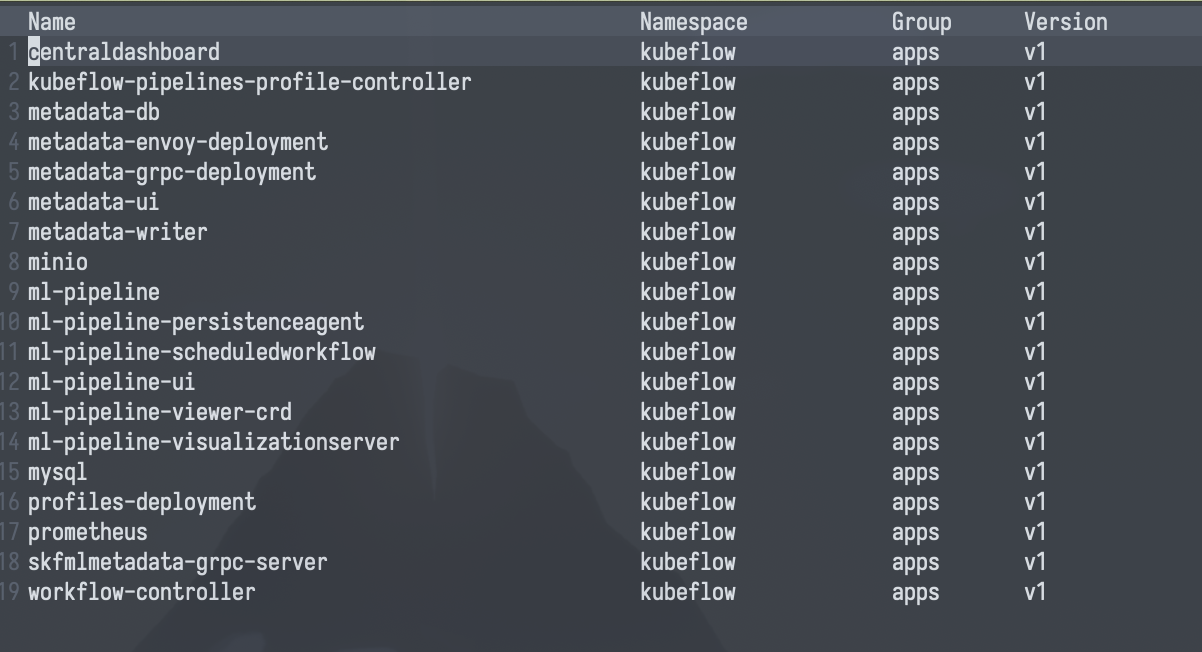
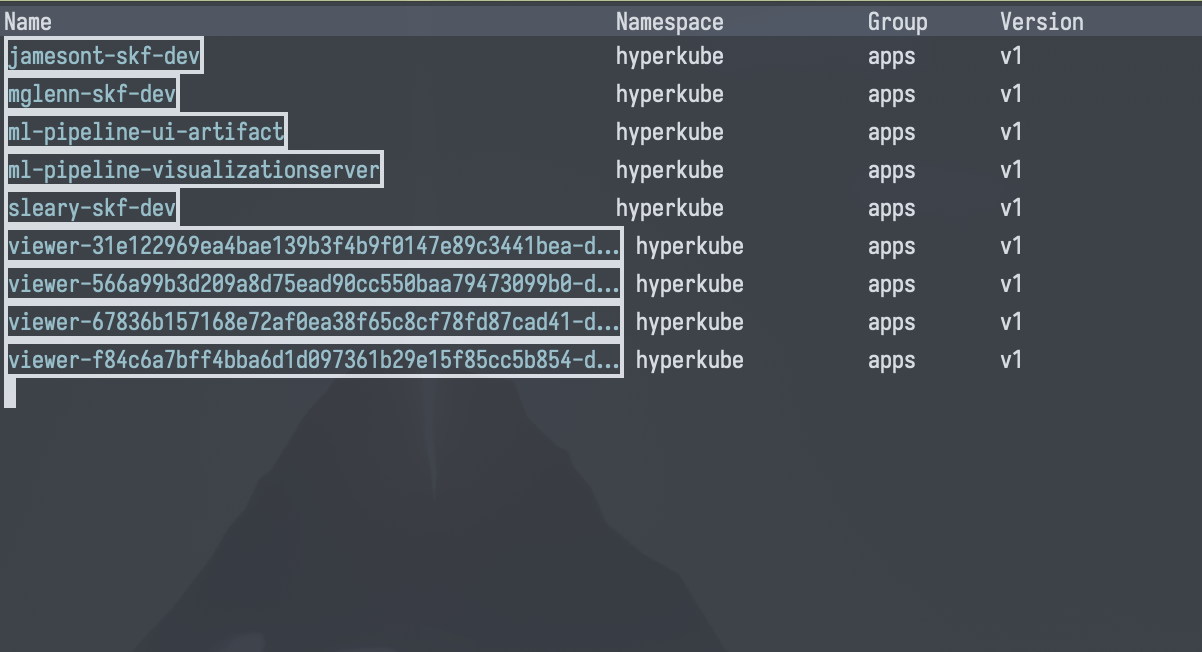
`kele-list`: Clickable rows (#141)
Closes #136.

diff --git a/docs/how-tos/usage.md b/docs/how-tos/usage.md
@@ -25,8 +25,8 @@ to accomplish, reach for `kele-dispatch`.
 
 ## Working with Resources
 
-`s-k r` is bound to `kele-resource`, the "prefix" command for working with
-resources in Kele.
+Interacting with resources in Kele centers around the `s-k r` prefix, which is
+bound to `kele-resource`.
 
 `kele-resource` allows you to act on specific resource kinds. With
 `kele-resource`, you can, for example:
@@ -44,10 +44,35 @@ work with, after which you can choose to **get** a specific object of that kind
 by name. If the resource is namespaced, you will also be presented with the
 option to choose the namespace to select from.
 
-| Keybinding                            | Functionality                      | Interactive function | Demo                         |
-|:--------------------------------------|------------------------------------|:---------------------|------------------------------|
-| `s-k r <kind-name> g <resource-name>` | Display a single resource          | `kele-get`           | ![](./img/kele-resource.gif) |
-| `s-k r <kind name> l`                 | List all resources of a given type | `kele-list`          | ![](./img/kele-list.png)     |
+### Getting a single resource
+
+You can get a single resource of the given kind with:
+```
+s-k r <kind name> g <resource name>`
+```
+
+This is bound to `kele-get`.
+
+![](./img/kele-resource.gif)
+
+### Listing all resources of a single kind
+
+You can list all resources of a single kind with:
+```
+s-k r <kind name> l
+```
+
+This is bound to `kele-list`.
+
+![](./img/kele-list.png)
+
+This will list all resources of the specified group-version and kind in a
+separate buffer in a table. From here, you can:
+
+- Click any of the header columns to sort the list;
+- Refresh the list with `g`;
+- Click or hit `RET` on any of the entries to display its full manifest in a
+  separate buffer.
 
 ### Refreshing a resource
 
